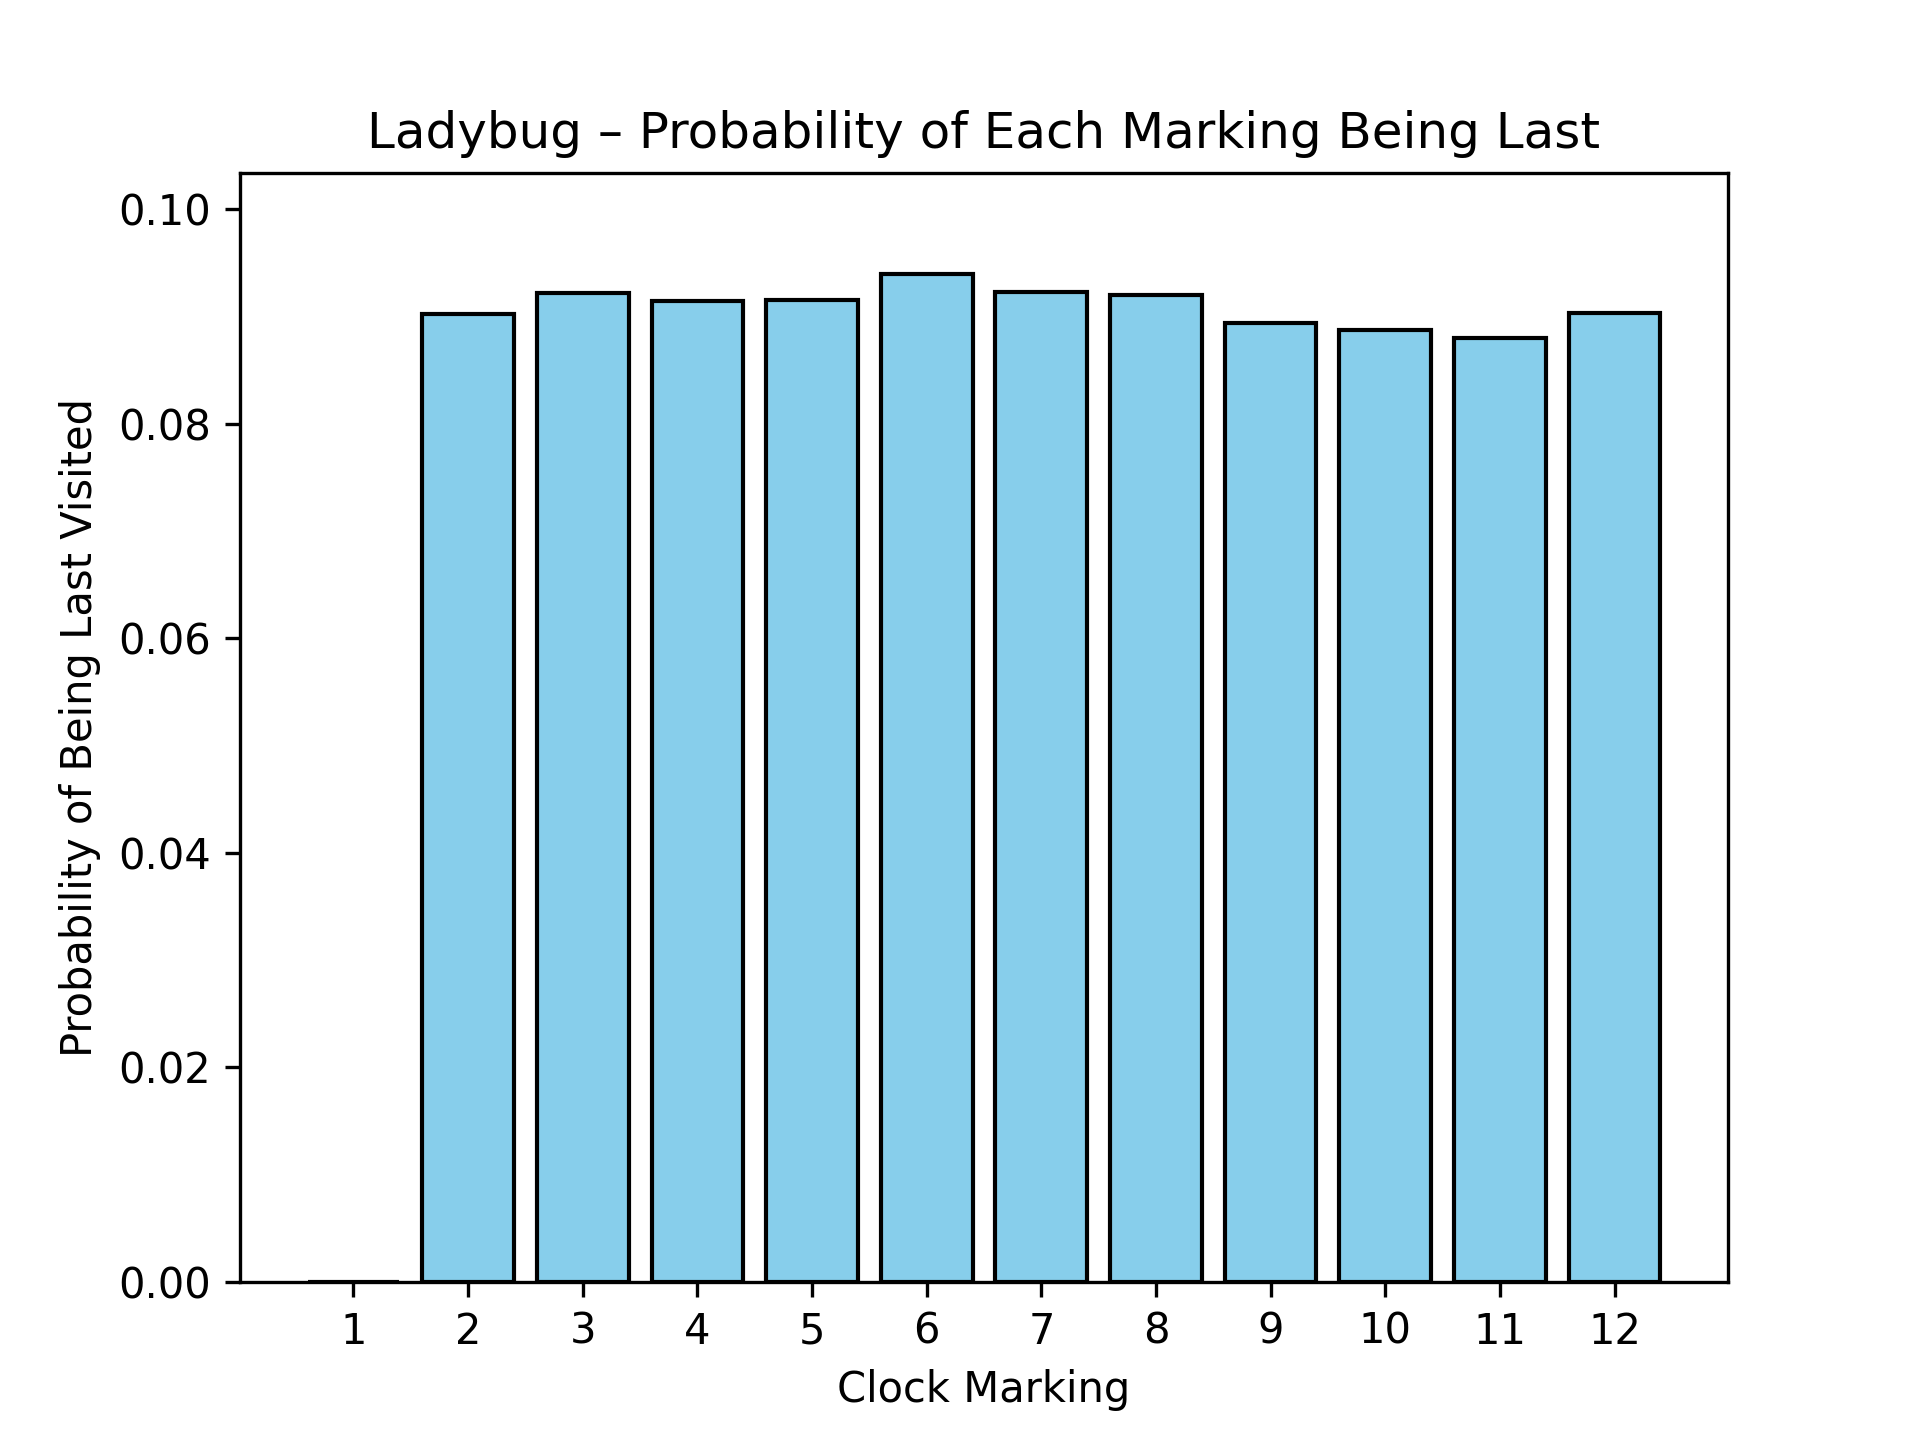
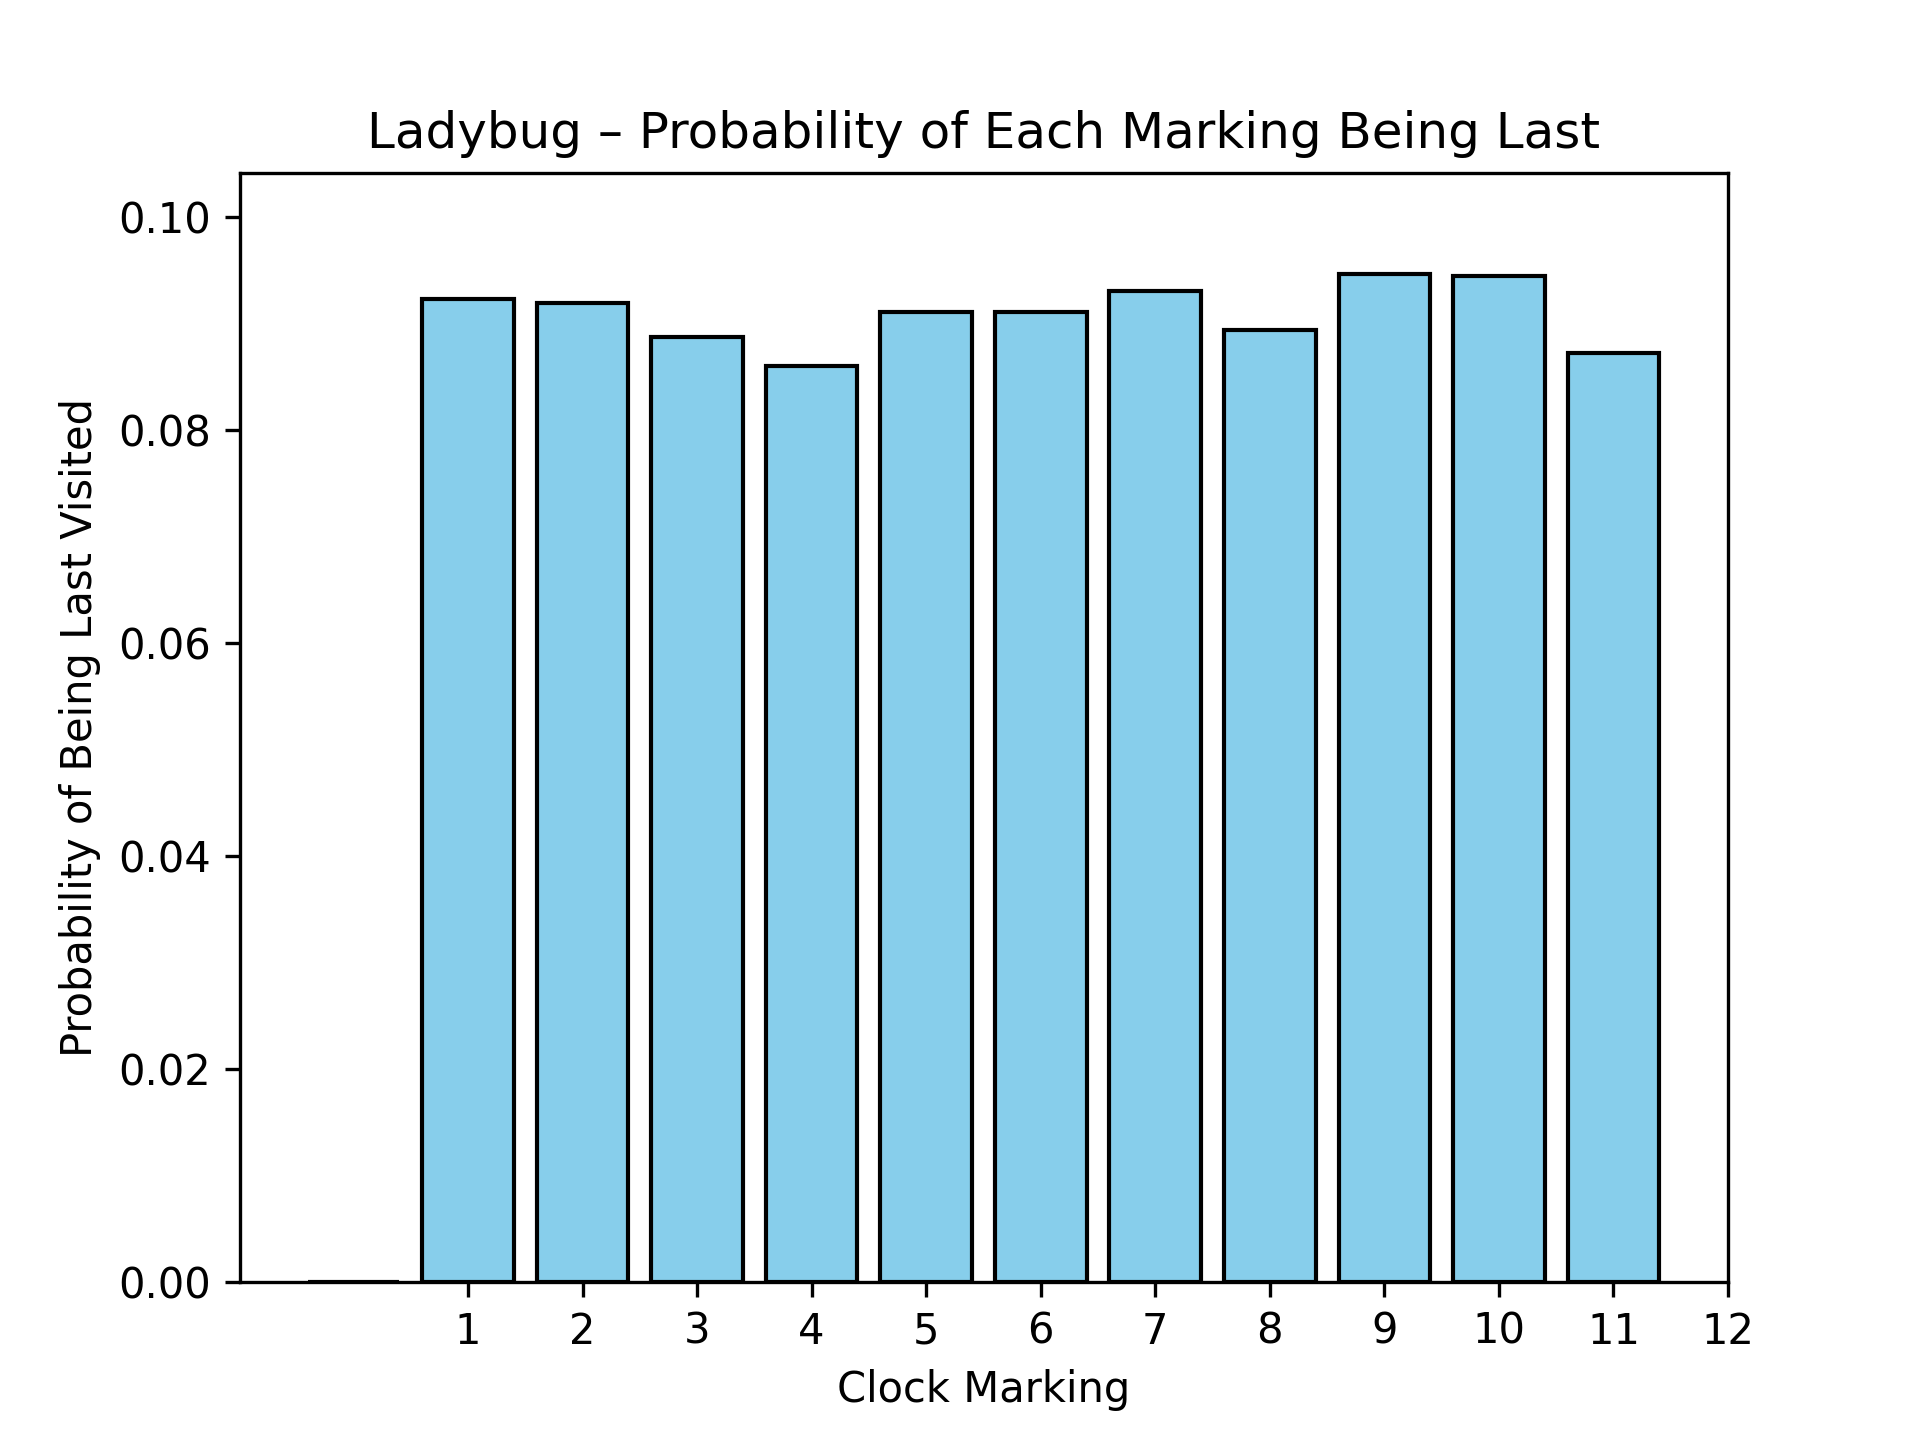
EddigiPeldakKesz

diff --git a/LadyBug.py b/LadyBug.py
@@ -1,5 +1,5 @@
 """
-Let's assume, we have an old wall clock, with marings between 1 and 12. 
+Let's assume, we have an old wall clock, with markings between 1 and 12. 
 Let's also assume that we have a ladybug on the clock, and that the ladybug can only move to the next marking in a clockwise or counter-clockwise direction with 50-50% chance.
 
 Now let's follow the movements of the ladybug! Whenever the ladybug reaches a marking, let's color that marking to know that the ladybug has been there.
@@ -7,6 +7,8 @@ The questions we want to answer is: What is the percentage for each marking to b
 The ladybug starts at marking 12, so 6 is the furthest away and from 12 it can move to either 1 or 11 with equal probability.
 
 An example for ladybug movements: 12 -> 1 -> 2 -> 1 -> 12 -> 11 -> 10 -> 9 -> 8 -> 9 -> 8 -> ...
+
+A very good explanation of the problem can be found in this video: https://www.youtube.com/shorts/t3jZ2xGOvYg
 """
 
 """
@@ -82,7 +84,7 @@ if __name__ == "__main__":
     markings = np.arange(1, 13)
 
     plt.figure()
-    plt.bar(markings, distritbutions, color="skyblue", edgecolor="black")
+    plt.bar(markings-1, distritbutions, color="skyblue", edgecolor="black")
     plt.xlabel("Clock Marking")
     plt.ylabel("Probability of Being Last Visited")
     plt.title("Ladybug – Probability of Each Marking Being Last")
@@ -91,24 +93,3 @@ if __name__ == "__main__":
 
     plt.savefig("Ladybug_Distribution.png", dpi=300)
     print("Diagram saved as Ladybug_Distribution.png")
-
-"""
-ratios = win_ratios_over_time(num_simulations)
-plot_limit = 10000
-# Plot how the ratio changes by increasing $n$  
-
-x = np.arange(1, plot_limit + 1)
-y = ratios[:plot_limit]
-
-plt.title("Win ratio for the player who serves first in a squash match")
-plt.xlabel("n = number of rounds played")
-plt.ylabel("Cumulative win percentage")
-plt.axhline(y=0.55, linestyle="--", alpha=0.6, label="Theoretical 55% win rate")
-plt.axhline(y=0.50, linestyle="--", alpha=0.3, color="gray", label="50% win rate")
-plt.plot(x, y)
-plt.xlim(1, plot_limit)
-plt.ylim(0.1, 0.6)
-plt.legend()
-plt.savefig("SquashServe.png", dpi=200)
-#plt.show()
-"""

diff --git a/README.md b/README.md
@@ -4,8 +4,23 @@ A collection of famous mathematical problems and their solutions, explored throu
 In this collection we will see a simulation for the following Math problems:
 
 1/ Monty Hall problem (in 3 version)
--Original
--With 1000 Doors
--With French Cards
+-Original (Choosing between 2 Doors, while starting with 3)
+-With 1000 Doors (Choosing between 2 Doors, while starting with 3)
+-With French Cards (Choosing between 2 Doors, while starting with 3)
+
+(In the last 2 example our "gut feeling" is more accurate than with the original game, telling us that we should switch)
 
 2/ The effect of seving in squash
+If we assume that between 2 equal players, a serve means 5% advantage, will starting always mean that the player has 55% chance of winning? Or will the effect of serving accumulate to an even bigger advantage?
+
+3/ Ladybug problem
+Let's assume, we have an old wall clock, with markings between 1 and 12. 
+Let's also assume that we have a ladybug on the clock, and that the ladybug can only move to the next marking in a clockwise or counter-clockwise direction with 50-50% chance.
+
+Now let's follow the movements of the ladybug! Whenever the ladybug reaches a marking, let's color that marking to know that the ladybug has been there.
+The questions we want to answer is: What is the percentage for each marking to be the last marking (lastly colored) that the ladybug visits?
+The ladybug starts at marking 12, so 6 is the furthest away and from 12 it can move to either 1 or 11 with equal probability.
+
+An example for ladybug movements: 12 -> 1 -> 2 -> 1 -> 12 -> 11 -> 10 -> 9 -> 8 -> 9 -> 8 -> ...
+
+A very good explanation of the problem can be found in this video: https://www.youtube.com/shorts/t3jZ2xGOvYg
